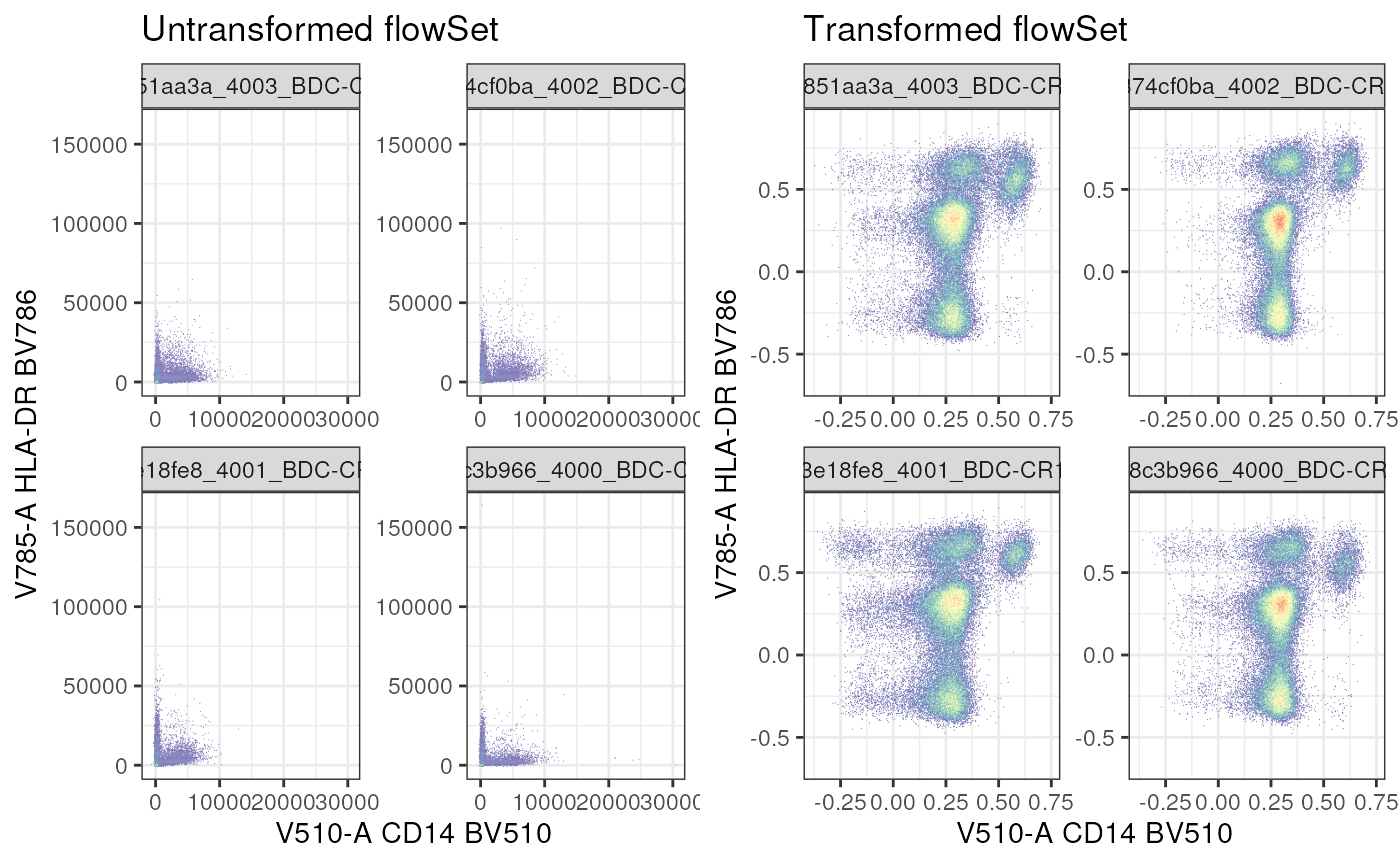
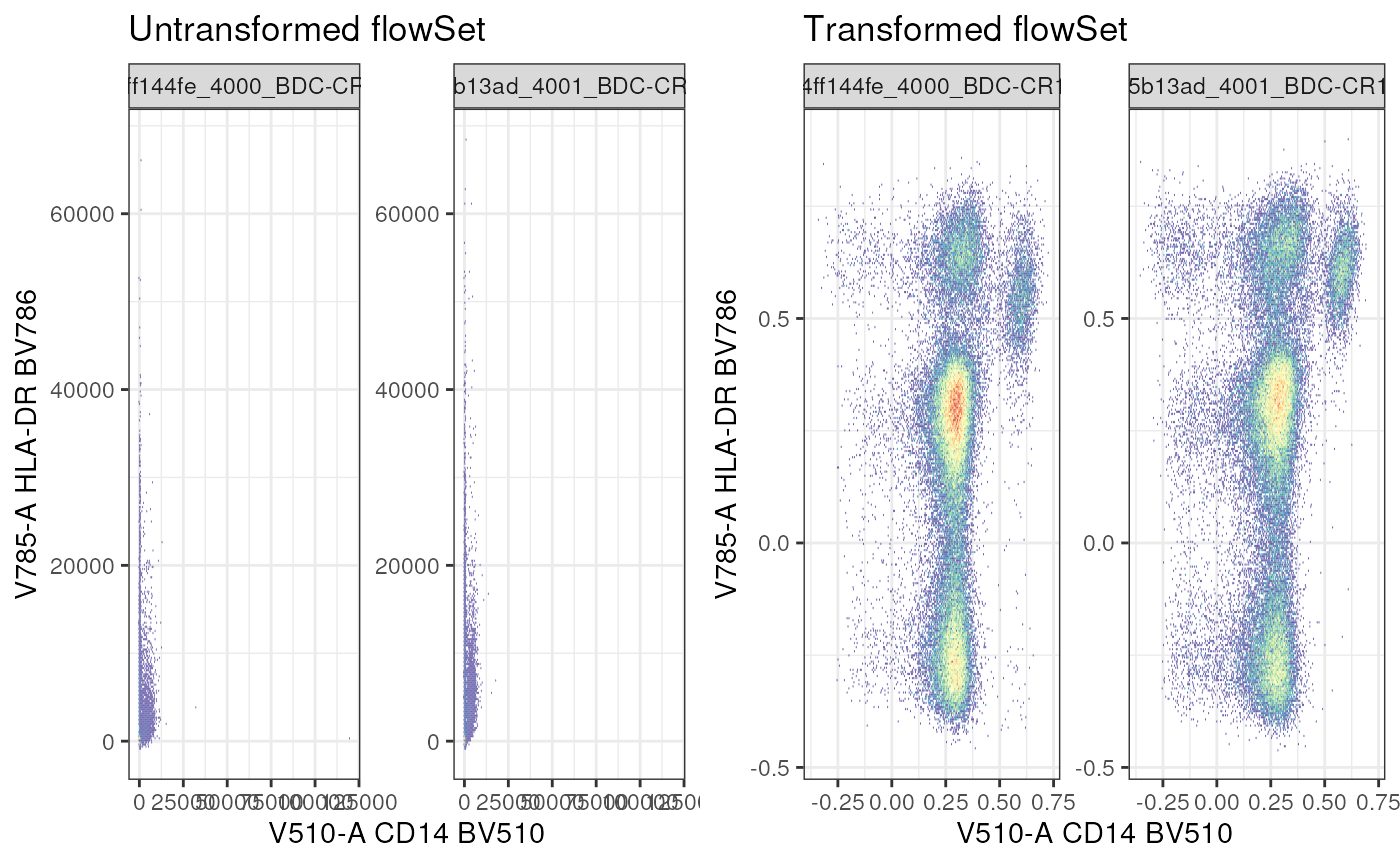
Deploying to gh-pages from @ OzetteTech/cytoverse-bioc-2023@63d19f67f72dc44cb63c720e7e01e81365603b1e 🚀

diff --git a/articles/Import_fcs.html b/articles/Import_fcs.html
@@ -33,7 +33,7 @@
       </button>
       <span class="navbar-brand">
         <a class="navbar-link" href="../index.html">CytoverseBioc2023</a>
-        <span class="version label label-default" data-toggle="tooltip" data-placement="bottom" title="">0.0.0.9005</span>
+        <span class="version label label-default" data-toggle="tooltip" data-placement="bottom" title="">0.0.0.9006</span>
       </span>
     </div>
 
@@ -427,14 +427,14 @@ Additionally, <code>cytoset</code> is built upon a collection of
 <span><span class="co"># convert to flowSet</span></span>
 <span><span class="va">fs</span> <span class="op">&lt;-</span> <span class="fu"><a href="https://rdrr.io/r/methods/as.html" class="external-link">as</a></span><span class="op">(</span><span class="va">fcs_list</span>,<span class="st">"flowSet"</span><span class="op">)</span></span>
 <span><span class="va">fs</span></span></code></pre></div>
-<pre><code><span><span class="co">## A flowSet with 16 experiments.</span></span>
+<pre><code><span><span class="co">## A flowSet with 6 experiments.</span></span>
 <span><span class="co">## </span></span>
 <span><span class="co">## column names(33): FSC-A FSC-H ... remove_from_FS_FM Time</span></span></code></pre>
 <div class="sourceCode" id="cb40"><pre class="downlit sourceCode r">
 <code class="sourceCode R"><span><span class="co"># option 2 (preferred)</span></span>
 <span><span class="va">fs</span> <span class="op">&lt;-</span> <span class="fu"><a href="https://rdrr.io/pkg/flowCore/man/read.flowSet.html" class="external-link">read.flowSet</a></span><span class="op">(</span>files <span class="op">=</span> <span class="fu"><a href="../reference/cache_workshop_data.html">get_workshop_data</a></span><span class="op">(</span>path <span class="op">=</span> <span class="st">"data/fcs_data/"</span><span class="op">)</span><span class="op">$</span><span class="va">rpath</span><span class="op">)</span> <span class="co"># read in directly as a flowSet</span></span>
 <span><span class="va">fs</span></span></code></pre></div>
-<pre><code><span><span class="co">## A flowSet with 16 experiments.</span></span>
+<pre><code><span><span class="co">## A flowSet with 6 experiments.</span></span>
 <span><span class="co">## </span></span>
 <span><span class="co">## column names(33): FSC-A FSC-H ... remove_from_FS_FM Time</span></span></code></pre>
 <p>Options to create a <code>cytoset</code></p>
@@ -446,7 +446,7 @@ Additionally, <code>cytoset</code> is built upon a collection of
 <span><span class="co"># option 2 (convert flowSet to cytoset)</span></span>
 <span><span class="va">cs</span> <span class="op">&lt;-</span> <span class="fu"><a href="https://rdrr.io/pkg/flowWorkspace/man/convert.html" class="external-link">flowSet_to_cytoset</a></span><span class="op">(</span><span class="va">fs</span><span class="op">)</span></span>
 <span><span class="va">cs</span></span></code></pre></div>
-<pre><code><span><span class="co">## A cytoset with 16 samples.</span></span>
+<pre><code><span><span class="co">## A cytoset with 6 samples.</span></span>
 <span><span class="co">## </span></span>
 <span><span class="co">##   column names:</span></span>
 <span><span class="co">##     FSC-A, FSC-H, SSC-A, B515-A, B610-A, B660-A, B710-A, B780-A, G575-A, G610-A, G660-A, G710-A, G780-A, R670-A, R730-A, R780-A, U390-A, U450-A, U500-A, U570-A, U660-A, U740-A, U785-A, V450-A, V510-A, V570-A, V605-A, V655-A, V710-A, V750-A, V785-A, remove_from_FS_FM, Time</span></span></code></pre>
@@ -465,61 +465,31 @@ dataframe should match the <code>sampleNames</code> of the
 <span><span class="co"># prior to providing metadata</span></span>
 <span><span class="fu"><a href="https://rdrr.io/pkg/Biobase/man/phenoData.html" class="external-link">pData</a></span><span class="op">(</span><span class="va">fs</span><span class="op">)</span></span></code></pre></div>
 <pre><code><span><span class="co">##                                                      name</span></span>
-<span><span class="co">## 5a168c3b966_4000_BDC-CR1.fcs 5a168c3b966_4000_BDC-CR1.fcs</span></span>
-<span><span class="co">## 5a1154c6782_4000_BDC-CR2.fcs 5a1154c6782_4000_BDC-CR2.fcs</span></span>
-<span><span class="co">## 5a143687335_4000_TNK-CR1.fcs 5a143687335_4000_TNK-CR1.fcs</span></span>
-<span><span class="co">## 5a138d01445_4000_TNK-CR2.fcs 5a138d01445_4000_TNK-CR2.fcs</span></span>
-<span><span class="co">## 5a13e18fe8_4001_BDC-CR1.fcs   5a13e18fe8_4001_BDC-CR1.fcs</span></span>
-<span><span class="co">## 5a16c0ae266_4001_BDC-CR2.fcs 5a16c0ae266_4001_BDC-CR2.fcs</span></span>
-<span><span class="co">## 5a1f68561c_4001_TNK-CR1.fcs   5a1f68561c_4001_TNK-CR1.fcs</span></span>
-<span><span class="co">## 5a17e564e76_4001_TNK-CR2.fcs 5a17e564e76_4001_TNK-CR2.fcs</span></span>
-<span><span class="co">## 5a1374cf0ba_4002_BDC-CR1.fcs 5a1374cf0ba_4002_BDC-CR1.fcs</span></span>
-<span><span class="co">## 5a164709311_4002_BDC-CR2.fcs 5a164709311_4002_BDC-CR2.fcs</span></span>
-<span><span class="co">## 5a161a31fb2_4002_TNK-CR1.fcs 5a161a31fb2_4002_TNK-CR1.fcs</span></span>
-<span><span class="co">## 5a146e59019_4002_TNK-CR2.fcs 5a146e59019_4002_TNK-CR2.fcs</span></span>
-<span><span class="co">## 5a12851aa3a_4003_BDC-CR1.fcs 5a12851aa3a_4003_BDC-CR1.fcs</span></span>
-<span><span class="co">## 5a15fb9a523_4003_BDC-CR2.fcs 5a15fb9a523_4003_BDC-CR2.fcs</span></span>
-<span><span class="co">## 5a1613f687b_4003_TNK-CR1.fcs 5a1613f687b_4003_TNK-CR1.fcs</span></span>
-<span><span class="co">## 5a1663c261c_4003_TNK-CR2.fcs 5a1663c261c_4003_TNK-CR2.fcs</span></span></code></pre>
+<span><span class="co">## 4ed4ff144fe_4000_BDC-CR1.fcs 4ed4ff144fe_4000_BDC-CR1.fcs</span></span>
+<span><span class="co">## 4ed165ced5_4000_TNK-CR1.fcs   4ed165ced5_4000_TNK-CR1.fcs</span></span>
+<span><span class="co">## 4ed5b13ad_4001_BDC-CR1.fcs     4ed5b13ad_4001_BDC-CR1.fcs</span></span>
+<span><span class="co">## 4ed6cb73651_4001_TNK-CR1.fcs 4ed6cb73651_4001_TNK-CR1.fcs</span></span>
+<span><span class="co">## 4ed491d0791_4002_TNK-CR1.fcs 4ed491d0791_4002_TNK-CR1.fcs</span></span>
+<span><span class="co">## 4ed1e241c6e_4003_TNK-CR1.fcs 4ed1e241c6e_4003_TNK-CR1.fcs</span></span></code></pre>
 <div class="sourceCode" id="cb46"><pre class="downlit sourceCode r">
 <code class="sourceCode R"><span><span class="co"># add metadata </span></span>
 <span><span class="fu"><a href="https://rdrr.io/pkg/Biobase/man/phenoData.html" class="external-link">pData</a></span><span class="op">(</span><span class="va">fs</span><span class="op">)</span> <span class="op">&lt;-</span> <span class="va">metadata</span></span>
 <span></span>
 <span><span class="fu"><a href="https://rdrr.io/pkg/Biobase/man/phenoData.html" class="external-link">pData</a></span><span class="op">(</span><span class="va">fs</span><span class="op">)</span></span></code></pre></div>
 <pre><code><span><span class="co">##                              Treatment         panel</span></span>
-<span><span class="co">## 5a168c3b966_4000_BDC-CR1.fcs   Treated Myeloid Panel</span></span>
-<span><span class="co">## 5a1154c6782_4000_BDC-CR2.fcs   Treated Myeloid Panel</span></span>
-<span><span class="co">## 5a143687335_4000_TNK-CR1.fcs Untreated  T Cell Panel</span></span>
-<span><span class="co">## 5a138d01445_4000_TNK-CR2.fcs   Treated  T Cell Panel</span></span>
-<span><span class="co">## 5a13e18fe8_4001_BDC-CR1.fcs  Untreated Myeloid Panel</span></span>
-<span><span class="co">## 5a16c0ae266_4001_BDC-CR2.fcs   Treated Myeloid Panel</span></span>
-<span><span class="co">## 5a1f68561c_4001_TNK-CR1.fcs    Treated  T Cell Panel</span></span>
-<span><span class="co">## 5a17e564e76_4001_TNK-CR2.fcs   Treated  T Cell Panel</span></span>
-<span><span class="co">## 5a1374cf0ba_4002_BDC-CR1.fcs Untreated Myeloid Panel</span></span>
-<span><span class="co">## 5a164709311_4002_BDC-CR2.fcs Untreated Myeloid Panel</span></span>
-<span><span class="co">## 5a161a31fb2_4002_TNK-CR1.fcs Untreated  T Cell Panel</span></span>
-<span><span class="co">## 5a146e59019_4002_TNK-CR2.fcs Untreated  T Cell Panel</span></span>
-<span><span class="co">## 5a12851aa3a_4003_BDC-CR1.fcs   Treated Myeloid Panel</span></span>
-<span><span class="co">## 5a15fb9a523_4003_BDC-CR2.fcs   Treated Myeloid Panel</span></span>
-<span><span class="co">## 5a1613f687b_4003_TNK-CR1.fcs   Treated  T Cell Panel</span></span>
-<span><span class="co">## 5a1663c261c_4003_TNK-CR2.fcs   Treated  T Cell Panel</span></span>
+<span><span class="co">## 4ed4ff144fe_4000_BDC-CR1.fcs   Treated Myeloid Panel</span></span>
+<span><span class="co">## 4ed165ced5_4000_TNK-CR1.fcs    Treated  T Cell Panel</span></span>
+<span><span class="co">## 4ed5b13ad_4001_BDC-CR1.fcs   Untreated Myeloid Panel</span></span>
+<span><span class="co">## 4ed6cb73651_4001_TNK-CR1.fcs   Treated  T Cell Panel</span></span>
+<span><span class="co">## 4ed491d0791_4002_TNK-CR1.fcs Untreated  T Cell Panel</span></span>
+<span><span class="co">## 4ed1e241c6e_4003_TNK-CR1.fcs Untreated  T Cell Panel</span></span>
 <span><span class="co">##                                                      name</span></span>
-<span><span class="co">## 5a168c3b966_4000_BDC-CR1.fcs 5a168c3b966_4000_BDC-CR1.fcs</span></span>
-<span><span class="co">## 5a1154c6782_4000_BDC-CR2.fcs 5a1154c6782_4000_BDC-CR2.fcs</span></span>
-<span><span class="co">## 5a143687335_4000_TNK-CR1.fcs 5a143687335_4000_TNK-CR1.fcs</span></span>
-<span><span class="co">## 5a138d01445_4000_TNK-CR2.fcs 5a138d01445_4000_TNK-CR2.fcs</span></span>
-<span><span class="co">## 5a13e18fe8_4001_BDC-CR1.fcs   5a13e18fe8_4001_BDC-CR1.fcs</span></span>
-<span><span class="co">## 5a16c0ae266_4001_BDC-CR2.fcs 5a16c0ae266_4001_BDC-CR2.fcs</span></span>
-<span><span class="co">## 5a1f68561c_4001_TNK-CR1.fcs   5a1f68561c_4001_TNK-CR1.fcs</span></span>
-<span><span class="co">## 5a17e564e76_4001_TNK-CR2.fcs 5a17e564e76_4001_TNK-CR2.fcs</span></span>
-<span><span class="co">## 5a1374cf0ba_4002_BDC-CR1.fcs 5a1374cf0ba_4002_BDC-CR1.fcs</span></span>
-<span><span class="co">## 5a164709311_4002_BDC-CR2.fcs 5a164709311_4002_BDC-CR2.fcs</span></span>
-<span><span class="co">## 5a161a31fb2_4002_TNK-CR1.fcs 5a161a31fb2_4002_TNK-CR1.fcs</span></span>
-<span><span class="co">## 5a146e59019_4002_TNK-CR2.fcs 5a146e59019_4002_TNK-CR2.fcs</span></span>
-<span><span class="co">## 5a12851aa3a_4003_BDC-CR1.fcs 5a12851aa3a_4003_BDC-CR1.fcs</span></span>
-<span><span class="co">## 5a15fb9a523_4003_BDC-CR2.fcs 5a15fb9a523_4003_BDC-CR2.fcs</span></span>
-<span><span class="co">## 5a1613f687b_4003_TNK-CR1.fcs 5a1613f687b_4003_TNK-CR1.fcs</span></span>
-<span><span class="co">## 5a1663c261c_4003_TNK-CR2.fcs 5a1663c261c_4003_TNK-CR2.fcs</span></span></code></pre>
+<span><span class="co">## 4ed4ff144fe_4000_BDC-CR1.fcs 4ed4ff144fe_4000_BDC-CR1.fcs</span></span>
+<span><span class="co">## 4ed165ced5_4000_TNK-CR1.fcs   4ed165ced5_4000_TNK-CR1.fcs</span></span>
+<span><span class="co">## 4ed5b13ad_4001_BDC-CR1.fcs     4ed5b13ad_4001_BDC-CR1.fcs</span></span>
+<span><span class="co">## 4ed6cb73651_4001_TNK-CR1.fcs 4ed6cb73651_4001_TNK-CR1.fcs</span></span>
+<span><span class="co">## 4ed491d0791_4002_TNK-CR1.fcs 4ed491d0791_4002_TNK-CR1.fcs</span></span>
+<span><span class="co">## 4ed1e241c6e_4003_TNK-CR1.fcs 4ed1e241c6e_4003_TNK-CR1.fcs</span></span></code></pre>
 <p>The benefit of having metadata is that we can use many of the
 sub-setting operations in a metadata specific manner.</p>
 <p><em>Note</em>: Many of the sub-setting operation for
@@ -535,29 +505,17 @@ full set of files.</p>
 <span>                 ,<span class="op">]</span></span>
 <span></span>
 <span><span class="va">fs_myeloid</span></span></code></pre></div>
-<pre><code><span><span class="co">## A flowSet with 8 experiments.</span></span>
+<pre><code><span><span class="co">## A flowSet with 2 experiments.</span></span>
 <span><span class="co">## </span></span>
 <span><span class="co">## column names(33): FSC-A FSC-H ... remove_from_FS_FM Time</span></span></code></pre>
 <div class="sourceCode" id="cb50"><pre class="downlit sourceCode r">
 <code class="sourceCode R"><span><span class="fu"><a href="https://rdrr.io/pkg/Biobase/man/phenoData.html" class="external-link">pData</a></span><span class="op">(</span><span class="va">fs_myeloid</span><span class="op">)</span></span></code></pre></div>
 <pre><code><span><span class="co">##                              Treatment         panel</span></span>
-<span><span class="co">## 5a168c3b966_4000_BDC-CR1.fcs   Treated Myeloid Panel</span></span>
-<span><span class="co">## 5a1154c6782_4000_BDC-CR2.fcs   Treated Myeloid Panel</span></span>
-<span><span class="co">## 5a13e18fe8_4001_BDC-CR1.fcs  Untreated Myeloid Panel</span></span>
-<span><span class="co">## 5a16c0ae266_4001_BDC-CR2.fcs   Treated Myeloid Panel</span></span>
-<span><span class="co">## 5a1374cf0ba_4002_BDC-CR1.fcs Untreated Myeloid Panel</span></span>
-<span><span class="co">## 5a164709311_4002_BDC-CR2.fcs Untreated Myeloid Panel</span></span>
-<span><span class="co">## 5a12851aa3a_4003_BDC-CR1.fcs   Treated Myeloid Panel</span></span>
-<span><span class="co">## 5a15fb9a523_4003_BDC-CR2.fcs   Treated Myeloid Panel</span></span>
+<span><span class="co">## 4ed4ff144fe_4000_BDC-CR1.fcs   Treated Myeloid Panel</span></span>
+<span><span class="co">## 4ed5b13ad_4001_BDC-CR1.fcs   Untreated Myeloid Panel</span></span>
 <span><span class="co">##                                                      name</span></span>
-<span><span class="co">## 5a168c3b966_4000_BDC-CR1.fcs 5a168c3b966_4000_BDC-CR1.fcs</span></span>
-<span><span class="co">## 5a1154c6782_4000_BDC-CR2.fcs 5a1154c6782_4000_BDC-CR2.fcs</span></span>
-<span><span class="co">## 5a13e18fe8_4001_BDC-CR1.fcs   5a13e18fe8_4001_BDC-CR1.fcs</span></span>
-<span><span class="co">## 5a16c0ae266_4001_BDC-CR2.fcs 5a16c0ae266_4001_BDC-CR2.fcs</span></span>
-<span><span class="co">## 5a1374cf0ba_4002_BDC-CR1.fcs 5a1374cf0ba_4002_BDC-CR1.fcs</span></span>
-<span><span class="co">## 5a164709311_4002_BDC-CR2.fcs 5a164709311_4002_BDC-CR2.fcs</span></span>
-<span><span class="co">## 5a12851aa3a_4003_BDC-CR1.fcs 5a12851aa3a_4003_BDC-CR1.fcs</span></span>
-<span><span class="co">## 5a15fb9a523_4003_BDC-CR2.fcs 5a15fb9a523_4003_BDC-CR2.fcs</span></span></code></pre>
+<span><span class="co">## 4ed4ff144fe_4000_BDC-CR1.fcs 4ed4ff144fe_4000_BDC-CR1.fcs</span></span>
+<span><span class="co">## 4ed5b13ad_4001_BDC-CR1.fcs     4ed5b13ad_4001_BDC-CR1.fcs</span></span></code></pre>
 <p>Below is an example of <code>cytoset</code> sub-setting which also
 highlights how the operations performed on <code>cytoset</code> affects
 the underlying data.</p>
@@ -591,12 +549,12 @@ To perform a <strong>deep copy</strong> we can use
 <div class="sourceCode" id="cb60"><pre class="downlit sourceCode r">
 <code class="sourceCode R"><span><span class="co"># look at underlying expression</span></span>
 <span><span class="fu"><a href="https://rdrr.io/r/base/range.html" class="external-link">range</a></span><span class="op">(</span><span class="fu"><a href="https://rdrr.io/pkg/Biobase/man/exprs.html" class="external-link">exprs</a></span><span class="op">(</span><span class="va">cs</span><span class="op">[[</span><span class="fl">2</span><span class="op">]</span><span class="op">]</span><span class="op">)</span><span class="op">[</span>,<span class="st">"B515-A"</span><span class="op">]</span><span class="op">)</span></span></code></pre></div>
-<pre><code><span><span class="co">## [1]   -85.39705 14721.02832</span></span></code></pre>
+<pre><code><span><span class="co">## [1]   -15.63437 23545.83203</span></span></code></pre>
 <div class="sourceCode" id="cb62"><pre class="downlit sourceCode r">
 <code class="sourceCode R"><span><span class="co"># subset and show prior to transformation</span></span>
 <span><span class="va">cs_small2</span> <span class="op">&lt;-</span> <span class="fu"><a href="https://rdrr.io/pkg/flowWorkspace/man/cytoframe.html" class="external-link">realize_view</a></span><span class="op">(</span><span class="va">cs</span><span class="op">[</span><span class="fl">2</span><span class="op">]</span><span class="op">)</span></span>
 <span><span class="fu"><a href="https://rdrr.io/r/base/range.html" class="external-link">range</a></span><span class="op">(</span><span class="fu"><a href="https://rdrr.io/pkg/Biobase/man/exprs.html" class="external-link">exprs</a></span><span class="op">(</span><span class="va">cs_small2</span><span class="op">[[</span><span class="fl">1</span><span class="op">]</span><span class="op">]</span><span class="op">)</span><span class="op">[</span>,<span class="st">"B515-A"</span><span class="op">]</span><span class="op">)</span></span></code></pre></div>
-<pre><code><span><span class="co">## [1]   -85.39705 14721.02832</span></span></code></pre>
+<pre><code><span><span class="co">## [1]   -15.63437 23545.83203</span></span></code></pre>
 <div class="sourceCode" id="cb64"><pre class="downlit sourceCode r">
 <code class="sourceCode R"><span><span class="co"># create a transformList</span></span>
 <span><span class="va">trans</span> <span class="op">&lt;-</span> <span class="fu"><a href="https://rdrr.io/pkg/flowCore/man/transformList-class.html" class="external-link">transformList</a></span><span class="op">(</span><span class="st">"B515-A"</span>,<span class="va">asinh</span><span class="op">)</span></span>
@@ -605,11 +563,11 @@ To perform a <strong>deep copy</strong> we can use
 <span></span>
 <span><span class="co"># after transformation</span></span>
 <span><span class="fu"><a href="https://rdrr.io/r/base/range.html" class="external-link">range</a></span><span class="op">(</span><span class="fu"><a href="https://rdrr.io/pkg/Biobase/man/exprs.html" class="external-link">exprs</a></span><span class="op">(</span><span class="va">cs_small2</span><span class="op">[[</span><span class="fl">1</span><span class="op">]</span><span class="op">]</span><span class="op">)</span><span class="op">[</span>,<span class="st">"B515-A"</span><span class="op">]</span><span class="op">)</span></span></code></pre></div>
-<pre><code><span><span class="co">## [1] -5.140493 10.290179</span></span></code></pre>
+<pre><code><span><span class="co">## [1] -3.44364 10.75985</span></span></code></pre>
 <div class="sourceCode" id="cb66"><pre class="downlit sourceCode r">
 <code class="sourceCode R"><span><span class="co"># whole cs </span></span>
 <span><span class="fu"><a href="https://rdrr.io/r/base/range.html" class="external-link">range</a></span><span class="op">(</span><span class="fu"><a href="https://rdrr.io/pkg/Biobase/man/exprs.html" class="external-link">exprs</a></span><span class="op">(</span><span class="va">cs</span><span class="op">[[</span><span class="fl">2</span><span class="op">]</span><span class="op">]</span><span class="op">)</span><span class="op">[</span>,<span class="st">"B515-A"</span><span class="op">]</span><span class="op">)</span></span></code></pre></div>
-<pre><code><span><span class="co">## [1]   -85.39705 14721.02832</span></span></code></pre>
+<pre><code><span><span class="co">## [1]   -15.63437 23545.83203</span></span></code></pre>
 <p>Notice that <code>cs</code> is left unchanged.</p>
 </div>
 <div class="section level2">

diff --git a/articles/Spillover_v2.html b/articles/Spillover_v2.html
@@ -33,7 +33,7 @@
       </button>
       <span class="navbar-brand">
         <a class="navbar-link" href="../index.html">CytoverseBioc2023</a>
-        <span class="version label label-default" data-toggle="tooltip" data-placement="bottom" title="">0.0.0.9005</span>
+        <span class="version label label-default" data-toggle="tooltip" data-placement="bottom" title="">0.0.0.9006</span>
       </span>
     </div>
 
@@ -609,7 +609,7 @@ transformation if required.</p>
 <span></span>
 <span><span class="co"># transform: this will transform the underlying data </span></span>
 <span><span class="fu"><a href="https://rdrr.io/pkg/flowCore/man/transform.html" class="external-link">transform</a></span><span class="op">(</span><span class="va">cs</span>,<span class="va">my_trans_list</span><span class="op">)</span></span></code></pre></div>
-<pre><code><span><span class="co">## A cytoset with 4 samples.</span></span>
+<pre><code><span><span class="co">## A cytoset with 2 samples.</span></span>
 <span><span class="co">## </span></span>
 <span><span class="co">##   column names:</span></span>
 <span><span class="co">##     FSC-A, FSC-H, SSC-A, B515-A, B610-A, B660-A, B710-A, B780-A, G575-A, G610-A, G660-A, G710-A, G780-A, R670-A, R730-A, R780-A, U390-A, U450-A, U500-A, U570-A, U660-A, U740-A, U785-A, V450-A, V510-A, V570-A, V605-A, V655-A, V710-A, V750-A, V785-A, remove_from_FS_FM, Time</span></span></code></pre>

diff --git a/authors.html b/authors.html
@@ -17,7 +17,7 @@
       </button>
       <span class="navbar-brand">
         <a class="navbar-link" href="index.html">CytoverseBioc2023</a>
-        <span class="version label label-default" data-toggle="tooltip" data-placement="bottom" title="">0.0.0.9005</span>
+        <span class="version label label-default" data-toggle="tooltip" data-placement="bottom" title="">0.0.0.9006</span>
       </span>
     </div>
 
@@ -86,13 +86,13 @@
 
     <p>McDavid A, Neupane A (2023).
 <em>CytoverseBioc2023: Reproducible and programmatic analysis of flow cytometry experiments with the cytoverse</em>.
-R package version 0.0.0.9005, <a href="https://ozettetech.github.io/cytoverse-bioc-2023/">https://ozettetech.github.io/cytoverse-bioc-2023/</a>. 
+R package version 0.0.0.9006, <a href="https://ozettetech.github.io/cytoverse-bioc-2023/">https://ozettetech.github.io/cytoverse-bioc-2023/</a>. 
 </p>
     <pre>@Manual{,
   title = {CytoverseBioc2023: Reproducible and programmatic analysis of flow cytometry experiments with the cytoverse},
   author = {Andrew McDavid and Arpan Neupane},
   year = {2023},
-  note = {R package version 0.0.0.9005},
+  note = {R package version 0.0.0.9006},
   url = {https://ozettetech.github.io/cytoverse-bioc-2023/},
 }</pre>
 

diff --git a/404.html b/404.html
@@ -32,7 +32,7 @@
       </button>
       <span class="navbar-brand">
         <a class="navbar-link" href="https://ozettetech.github.io/cytoverse-bioc-2023/index.html">CytoverseBioc2023</a>
-        <span class="version label label-default" data-toggle="tooltip" data-placement="bottom" title="">0.0.0.9005</span>
+        <span class="version label label-default" data-toggle="tooltip" data-placement="bottom" title="">0.0.0.9006</span>
       </span>
     </div>
 

diff --git a/articles/Bioc2023_Cytoverse.html b/articles/Bioc2023_Cytoverse.html
@@ -33,7 +33,7 @@
       </button>
       <span class="navbar-brand">
         <a class="navbar-link" href="../index.html">CytoverseBioc2023</a>
-        <span class="version label label-default" data-toggle="tooltip" data-placement="bottom" title="">0.0.0.9005</span>
+        <span class="version label label-default" data-toggle="tooltip" data-placement="bottom" title="">0.0.0.9006</span>
       </span>
     </div>
 

diff --git a/articles/Gating_1.html b/articles/Gating_1.html
@@ -33,7 +33,7 @@
       </button>
       <span class="navbar-brand">
         <a class="navbar-link" href="../index.html">CytoverseBioc2023</a>
-        <span class="version label label-default" data-toggle="tooltip" data-placement="bottom" title="">0.0.0.9005</span>
+        <span class="version label label-default" data-toggle="tooltip" data-placement="bottom" title="">0.0.0.9006</span>
       </span>
     </div>
 

diff --git a/articles/HOWTO_BUILD_WORKSHOP.html b/articles/HOWTO_BUILD_WORKSHOP.html
@@ -33,7 +33,7 @@
       </button>
       <span class="navbar-brand">
         <a class="navbar-link" href="../index.html">CytoverseBioc2023</a>
-        <span class="version label label-default" data-toggle="tooltip" data-placement="bottom" title="">0.0.0.9005</span>
+        <span class="version label label-default" data-toggle="tooltip" data-placement="bottom" title="">0.0.0.9006</span>
       </span>
     </div>
 

diff --git a/articles/Reporting_1.html b/articles/Reporting_1.html
@@ -33,7 +33,7 @@
       </button>
       <span class="navbar-brand">
         <a class="navbar-link" href="../index.html">CytoverseBioc2023</a>
-        <span class="version label label-default" data-toggle="tooltip" data-placement="bottom" title="">0.0.0.9005</span>
+        <span class="version label label-default" data-toggle="tooltip" data-placement="bottom" title="">0.0.0.9006</span>
       </span>
     </div>
 

diff --git a/articles/ggcyto_1-5.html b/articles/ggcyto_1-5.html
@@ -33,7 +33,7 @@
       </button>
       <span class="navbar-brand">
         <a class="navbar-link" href="../index.html">CytoverseBioc2023</a>
-        <span class="version label label-default" data-toggle="tooltip" data-placement="bottom" title="">0.0.0.9005</span>
+        <span class="version label label-default" data-toggle="tooltip" data-placement="bottom" title="">0.0.0.9006</span>
       </span>
     </div>
 

diff --git a/articles/index.html b/articles/index.html
@@ -17,7 +17,7 @@
       </button>
       <span class="navbar-brand">
         <a class="navbar-link" href="../index.html">CytoverseBioc2023</a>
-        <span class="version label label-default" data-toggle="tooltip" data-placement="bottom" title="">0.0.0.9005</span>
+        <span class="version label label-default" data-toggle="tooltip" data-placement="bottom" title="">0.0.0.9006</span>
       </span>
     </div>
 

diff --git a/articles/workshop_example.html b/articles/workshop_example.html
@@ -33,7 +33,7 @@
       </button>
       <span class="navbar-brand">
         <a class="navbar-link" href="../index.html">CytoverseBioc2023</a>
-        <span class="version label label-default" data-toggle="tooltip" data-placement="bottom" title="">0.0.0.9005</span>
+        <span class="version label label-default" data-toggle="tooltip" data-placement="bottom" title="">0.0.0.9006</span>
       </span>
     </div>
 

diff --git a/reference/cache_workshop_data.html b/reference/cache_workshop_data.html
@@ -17,7 +17,7 @@
       </button>
       <span class="navbar-brand">
         <a class="navbar-link" href="../index.html">CytoverseBioc2023</a>
-        <span class="version label label-default" data-toggle="tooltip" data-placement="bottom" title="">0.0.0.9005</span>
+        <span class="version label label-default" data-toggle="tooltip" data-placement="bottom" title="">0.0.0.9006</span>
       </span>
     </div>
 
